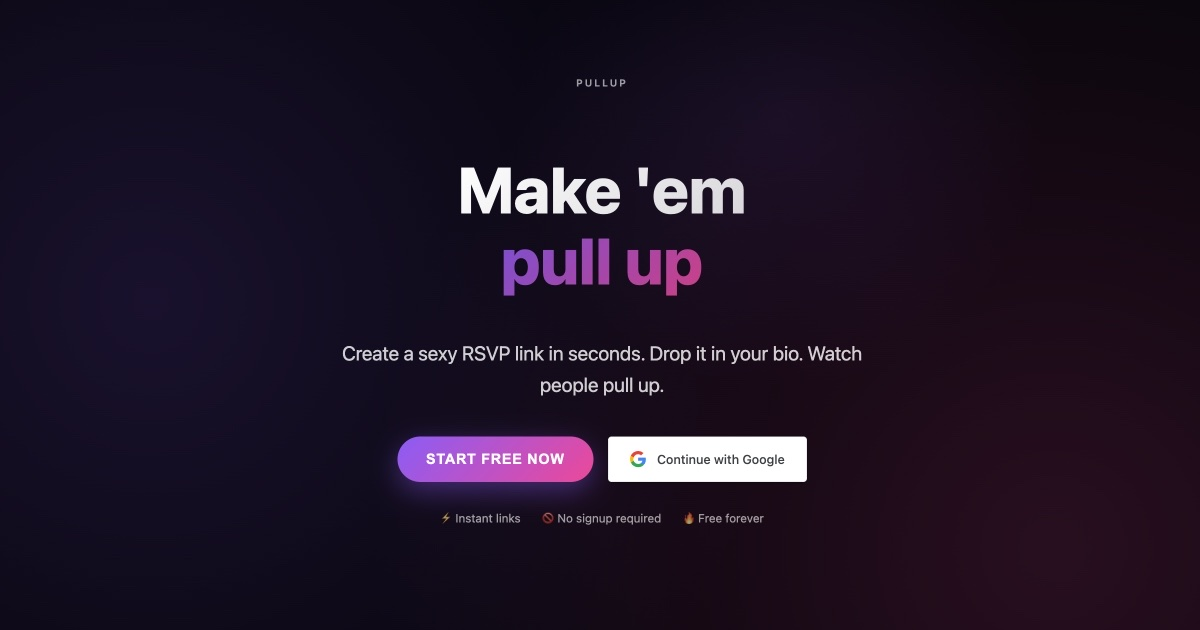
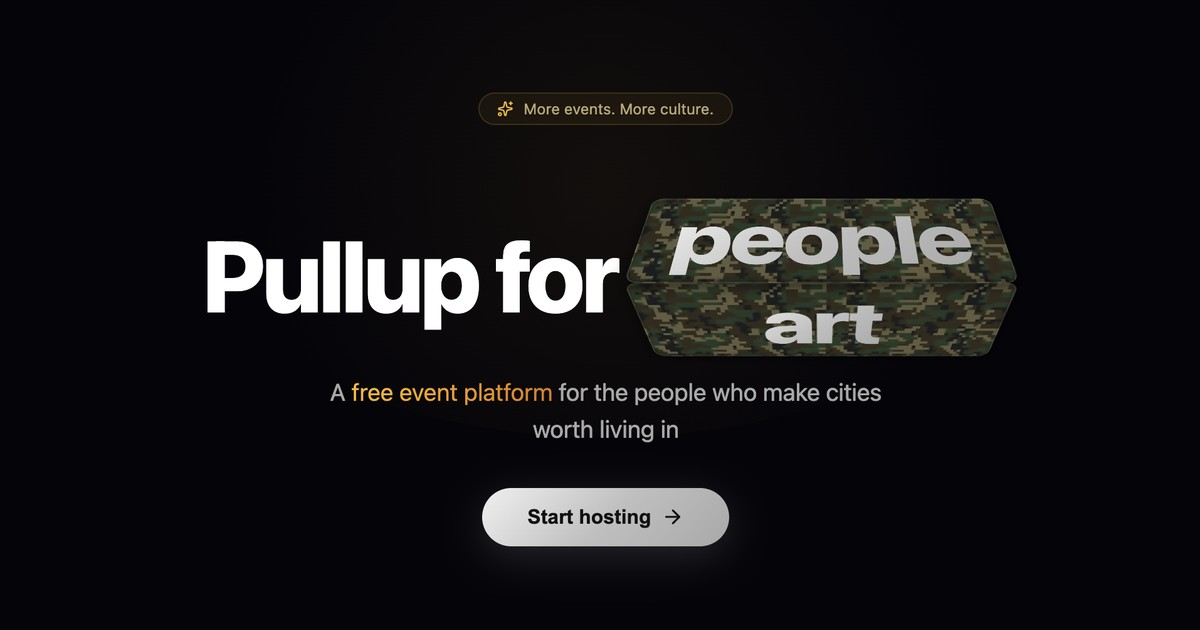
updated metadata, svg and sharing images

diff --git a/frontend/src/components/ProtectedLayout.jsx b/frontend/src/components/ProtectedLayout.jsx
@@ -14,6 +14,7 @@ function ProtectedLayoutInner() {
   const [isAdmin, setIsAdmin] = useState(false);
   const [menuOpen, setMenuOpen] = useState(false);
   const [isMobile, setIsMobile] = useState(window.innerWidth < 768);
+  const [profilePic, setProfilePic] = useState(null);
   const drawerRef = useRef(null);
 
   // Detect event routes
@@ -37,6 +38,19 @@ function ProtectedLayoutInner() {
     window.addEventListener("resize", check);
     return () => window.removeEventListener("resize", check);
   }, []);
+
+  // Fetch host profile picture
+  useEffect(() => {
+    if (!user) return;
+    authenticatedFetch("/host/profile")
+      .then((r) => (r.ok ? r.json() : null))
+      .then((p) => {
+        if (p?.profilePicture) setProfilePic(p.profilePicture);
+      })
+      .catch(() => {});
+  }, [user]);
+
+  const avatarSrc = profilePic || null;
 
   // Close menu on route change
   useEffect(() => {
@@ -472,18 +486,17 @@ function ProtectedLayoutInner() {
                 padding: 0,
               }}
             >
-              {user?.user_metadata?.picture ||
-              user?.user_metadata?.avatar_url ? (
+              {avatarSrc ? (
                 <img
-                  src={
-                    user.user_metadata.picture || user.user_metadata.avatar_url
-                  }
+                  src={avatarSrc}
                   alt="Profile"
+                  referrerPolicy="no-referrer"
                   style={{
                     width: "100%",
                     height: "100%",
                     objectFit: "cover",
                   }}
+                  onError={(e) => { e.target.style.display = "none"; }}
                 />
               ) : (
                 <span
@@ -639,19 +652,17 @@ function ProtectedLayoutInner() {
                     flexShrink: 0,
                   }}
                 >
-                  {user?.user_metadata?.picture ||
-                  user?.user_metadata?.avatar_url ? (
+                  {avatarSrc ? (
                     <img
-                      src={
-                        user.user_metadata.picture ||
-                        user.user_metadata.avatar_url
-                      }
+                      src={avatarSrc}
                       alt="Profile"
+                      referrerPolicy="no-referrer"
                       style={{
                         width: "100%",
                         height: "100%",
                         objectFit: "cover",
                       }}
+                      onError={(e) => { e.target.style.display = "none"; }}
                     />
                   ) : (
                     <span

diff --git a/frontend/index.html b/frontend/index.html
@@ -8,35 +8,40 @@
     />
 
     <!-- Primary Meta -->
-    <title>Pull Up — create sexy RSVPs</title>
-    <meta name="title" content="Pull Up — create sexy RSVPs" />
+    <title>Pullup — for the culture</title>
+    <meta name="title" content="Pullup — for the culture" />
     <meta
       name="description"
-      content="Create beautiful RSVP pages and manage guests in minutes."
+      content="A free event platform for the people who make cities worth living in."
     />
 
     <!-- Open Graph -->
     <meta property="og:type" content="website" />
     <meta property="og:url" content="/" />
-    <meta property="og:title" content="Pull Up — create sexy RSVPs" />
+    <meta property="og:title" content="Pullup — for the culture" />
     <meta
       property="og:description"
-      content="Create beautiful RSVP pages and manage guests in minutes."
+      content="A free event platform for the people who make cities worth living in."
     />
     <meta property="og:image" content="/og-image.jpg" />
     <meta property="og:image:width" content="1200" />
     <meta property="og:image:height" content="630" />
+    <meta property="og:site_name" content="Pullup" />
 
     <!-- Twitter -->
     <meta name="twitter:card" content="summary_large_image" />
-    <meta name="twitter:title" content="Pull Up — create sexy RSVPs" />
+    <meta name="twitter:title" content="Pullup — for the culture" />
     <meta
       name="twitter:description"
-      content="Create beautiful RSVP pages and manage guests in minutes."
+      content="A free event platform for the people who make cities worth living in."
     />
     <meta name="twitter:image" content="/og-image.jpg" />
 
+    <!-- Theme -->
+    <meta name="theme-color" content="#05040a" />
+
     <!-- Favicons -->
+    <link rel="icon" type="image/svg+xml" href="/favicon.svg" />
     <link rel="icon" type="image/png" sizes="32x32" href="/favicon-32x32.png" />
     <link rel="icon" type="image/png" sizes="16x16" href="/favicon-16x16.png" />
     <link rel="apple-touch-icon" sizes="180x180" href="/apple-touch-icon.png" />
